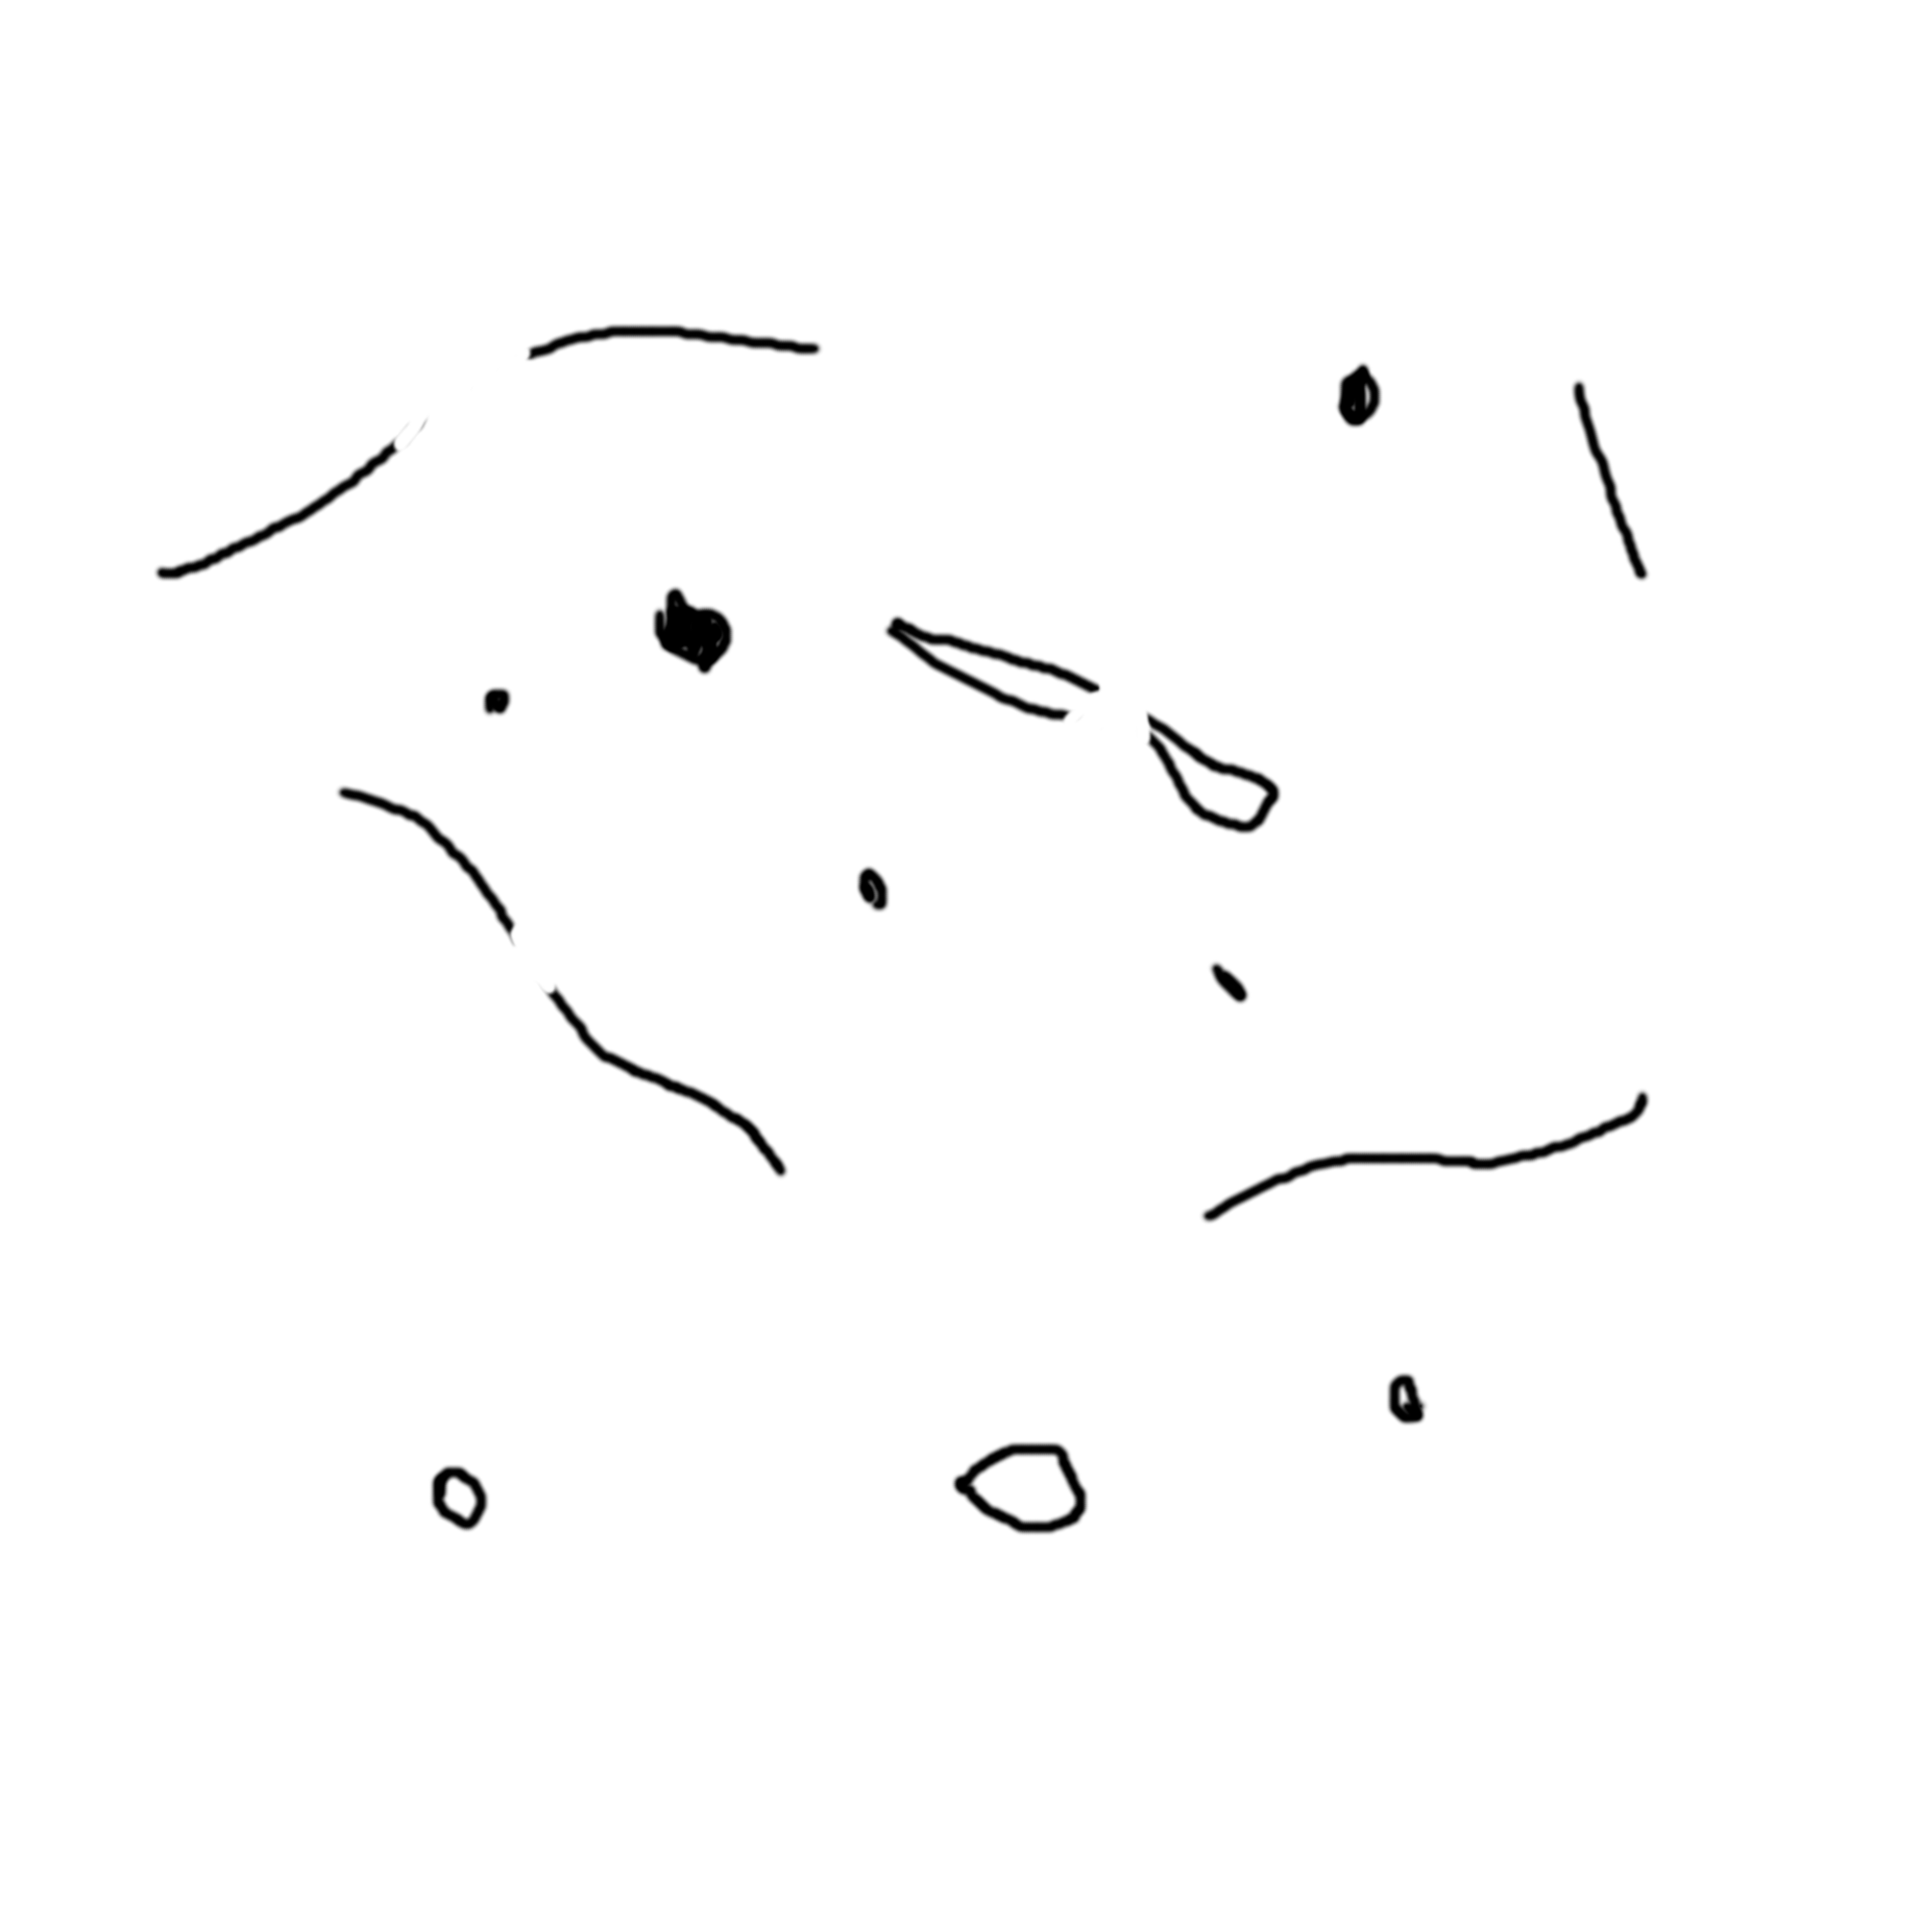
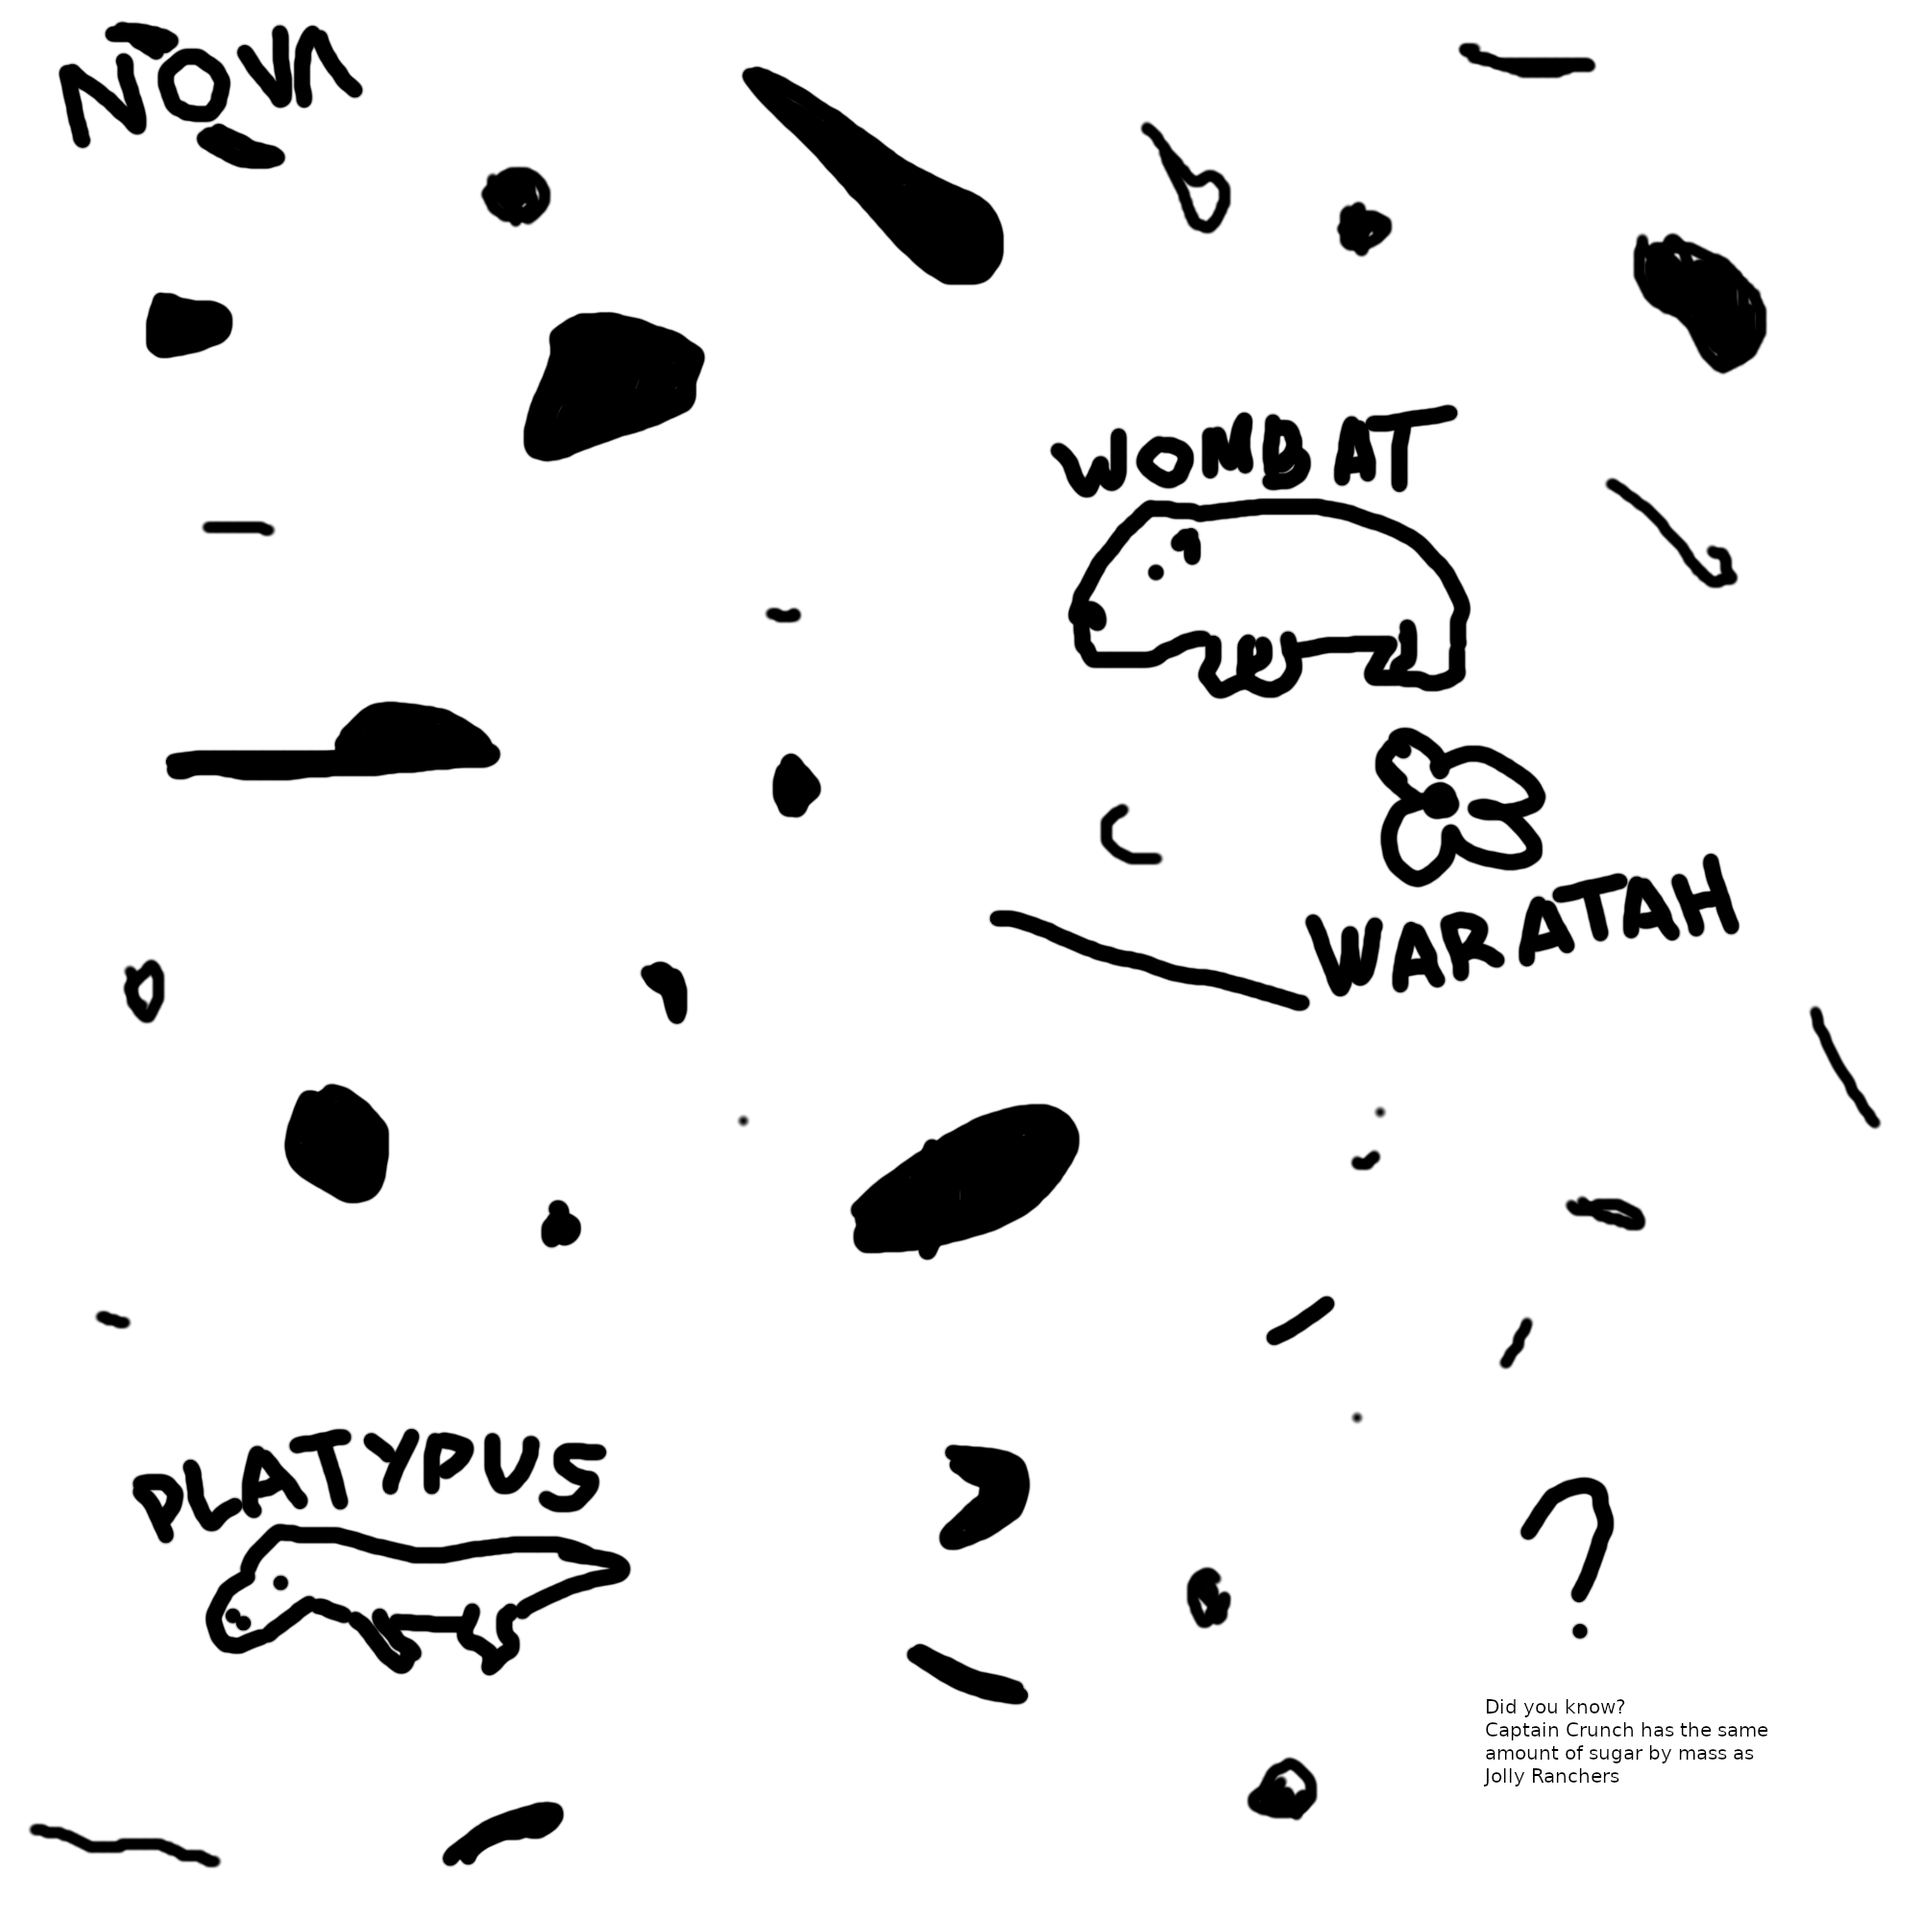
correctly detecting whether obstacles nearby

diff --git a/src/ros/rover/autonomous/autonomous/planning/path_planner.py b/src/ros/rover/autonomous/autonomous/planning/path_planner.py
@@ -59,18 +59,18 @@ class PathPlanner(Node):
         :param resolution_m: planning resolution
         """
         super().__init__("path_planner_node")
-        self.get_logger().set_level(logging.INFO)
+        self.get_logger().set_level(logging.DEBUG)
 
         self.param_obstacle_near_dist = self.declare_parameter("obstacle_near_dist_m", 2).value
         self.param_near_obstacle_thresh = self.declare_parameter("num_near_obstacles_thresh", 5).value
         self.resolution = self.declare_parameter("resolution_m", 0.1).value
+        self.param_update_pose_freq = self.declare_parameter("update_pose_hz", 10).value
 
         # constants
         self.padding_dist_m = INITIAL_PADDING_DIST_M
 
         # state
         self.pose_2d = Pose2D()
-        self.start = (0, 0)
         self.goal = Pose()
         self.goal_id = 0
         self.path = Path()
@@ -102,22 +102,43 @@ class PathPlanner(Node):
             self.get_logger().info("Received transform!")
             self.planning_subscriber = self.create_subscription(PoseStamped, planning_destination_topic, self.path_planning_sub_callback, 10)
             self.map_subscriber = self.create_subscription(OccupancyGrid, "/autonomous/occupancy_grid", self.update_map, 10)
+            self.update_pose_timer = self.create_timer(1 / self.param_update_pose_freq, self.update_pose)
 
     def update_map(self, msg):
         self.get_logger().debug("updating map")
         self._map = Grid2D.map_from_occupancy(msg)
         self._map[self._map < 0] = unseen_map_cost
+
+        self.length = self._map.shape[0]
+        self.width = self._map.shape[1]
+
+        self.length_meters = int(self._map.shape[0] * self.resolution)
+        self.width_meters = int(self._map.shape[1] * self.resolution)
+        
         self.check_near_obstacle()
 
     def check_near_obstacle(self):
         """
         Checks if the rover is near an obstacle, and publishes True if it is
         """
-        min_x_idx = max(0, int((self.pose_2d.x - self.param_obstacle_near_dist) / self.resolution))
-        min_y_idx = max(0, int((self.pose_2d.y - self.param_obstacle_near_dist) / self.resolution))
-        max_x_idx = min(len(self._map) - 1, int((self.pose_2d.x + self.param_obstacle_near_dist) / self.resolution))
-        max_y_idx = min(len(self._map[0]) - 1, int((self.pose_2d.y + self.param_obstacle_near_dist) / self.resolution))
+        if self._map is None:
+            return
+        pos = (self.pose_2d.x, self.pose_2d.y)
+        min_x = pos[0] - self.param_obstacle_near_dist
+        min_y = pos[1] - self.param_obstacle_near_dist
+        max_x = pos[0] + self.param_obstacle_near_dist
+        max_y = pos[1] + self.param_obstacle_near_dist
+        min_coord = self.get_grid_coord((min_x, min_y))
+        max_coord = self.get_grid_coord((max_x, max_y))
+        min_x_idx = max(0, min_coord[0])
+        min_y_idx = max(0, min_coord[1])
+        max_x_idx = min(len(self._map), max_coord[0])
+        max_y_idx = min(len(self._map[0]), max_coord[1])
         region_of_interest = self._map[min_x_idx:max_x_idx, min_y_idx:max_y_idx]
+        self.get_logger().debug(f"pos: {pos}")
+        self.get_logger().debug(f"min_x: {min_x_idx}, min_y: {min_y_idx}")
+        self.get_logger().debug(f"max_x: {max_x_idx}, max_y: {max_y_idx}")
+        self.get_logger().debug(f"Obstacle ROI: {region_of_interest}")
         near_obstacle = np.sum((region_of_interest >= 1).astype(float)) > self.param_near_obstacle_thresh
         self.pub_near_obstacle.publish(Bool(data=bool(near_obstacle)))
 
@@ -143,10 +164,7 @@ class PathPlanner(Node):
             return 
         self.get_logger().debug("Path planner sub callback!")
         self.set_goal(goal=msg)
-        try:
-            self.update_pose()
-        except Exception as e:
-            self.get_logger().debug(f"Transform lookup error: {e}")
+        self.update_pose()
         self.get_path()
         self.path_publisher.publish(self.path)
 
@@ -162,7 +180,11 @@ class PathPlanner(Node):
         """ 
         Callback function that updates the current pose of the rover from transform data
         """
-        tf = self.tf_buffer.lookup_transform('local_map', 'base_link', time=Time())
+        try: 
+            tf = self.tf_buffer.lookup_transform('local_map', 'base_link', time=Time())
+        except Exception as e:
+            self.get_logger().warn(f"Couldn't find transform: {e}")
+            return
         self.pose_2d.x = tf.transform.translation.x
         self.pose_2d.y = tf.transform.translation.y
         self.pose_2d.theta = transform.quat_to_euler(q=tf.transform.rotation)[2]
@@ -219,18 +241,12 @@ class PathPlanner(Node):
         if padding <= 0.4:
             return Path()
 
-        self.start = self.pose_2d.x, self.pose_2d.y
+        start = self.pose_2d.x, self.pose_2d.y
         local_goal = self.goal.position.x, self.goal.position.y
         self.get_logger().debug(f"planning to {(local_goal[0], local_goal[1])}")
 
-        self.length = self._map.shape[0]
-        self.width = self._map.shape[1]
-
-        self.length_meters = int(self._map.shape[0] * self.resolution)
-        self.width_meters = int(self._map.shape[1] * self.resolution)
-        
         t1 = time.perf_counter()
-        start_coord =self.get_grid_coord(self.start)
+        start_coord =self.get_grid_coord(start)
         goal_coord = self.get_grid_coord(local_goal)
         self.get_logger().debug(f"Calling a_star C++ with start: {start_coord} and goal: {goal_coord}")
         route = np.array(a_star(self._map, start_coord, goal_coord, self.resolution, padding))

diff --git a/src/ros/rover/autonomous/autonomous/mapping/map_sim.py b/src/ros/rover/autonomous/autonomous/mapping/map_sim.py
@@ -29,6 +29,7 @@ from rclpy.time import Time
 from tf2_ros import TransformListener, Buffer
 
 # local imports
+from autonomous import mapping
 
 # message types
 from nav_msgs.msg import OccupancyGrid, MapMetaData
@@ -38,6 +39,7 @@ from geometry_msgs.msg import Transform
 import cv2
 import logging
 import numpy as np
+from pathlib import Path
 
 
 class SimulatedMapper(Node):
@@ -45,7 +47,7 @@ class SimulatedMapper(Node):
     def __init__(self):
         super().__init__("TemplateNode")
         self.get_logger().set_level(logging.INFO)
-        self.param_full_map_path = self.declare_parameter("full_map_path", "map.png").value
+        self.param_local_map_path = self.declare_parameter("local_map_path", "map.png").value
         self.param_map_pub_hz = self.declare_parameter("map_pub_rate_hz", 10).value
         self.param_map_resolution = self.declare_parameter("map_resolution_m", 0.1).value
         self.param_local_map_width = self.declare_parameter("local_map_width_px", 200).value
@@ -77,10 +79,11 @@ class SimulatedMapper(Node):
 
     def load_initial_map(self):
         """
-        Loads the map from the param_full_map_path
+        Loads the map from the param_local_map_path
         :return: None
         """
-        self.global_map = cv2.imread(self.param_full_map_path, 0)
+        abs_file_path = Path(mapping.__file__).parent / self.param_local_map_path
+        self.global_map = cv2.imread(abs_file_path.resolve().as_posix(), 0)
         self.global_map = 1 - self.global_map / 255
         self.global_map = (self.global_map * 100).astype(np.ubyte)
         self.global_map_len = self.global_map.shape[0]

diff --git a/src/ros/rover/autonomous/autonomous/planning/goal_selector.py b/src/ros/rover/autonomous/autonomous/planning/goal_selector.py
@@ -524,7 +524,7 @@ class Controller(Node):
         elif self.state == PlanningState.THROUGH_GATE:
             self.state_current_goal = self.get_gate_goal()
 
-        dist_to_goal = self.dist_to_goal(self.state_current_goal)
+        dist_to_goal = self.dist_to_goal(self.state_long_term_goal)
         self.pub_goal_dist.publish(Float64(data=dist_to_goal))
         planning_destination = PoseStamped()
         planning_destination.header.stamp = self.get_clock().now().to_msg()
